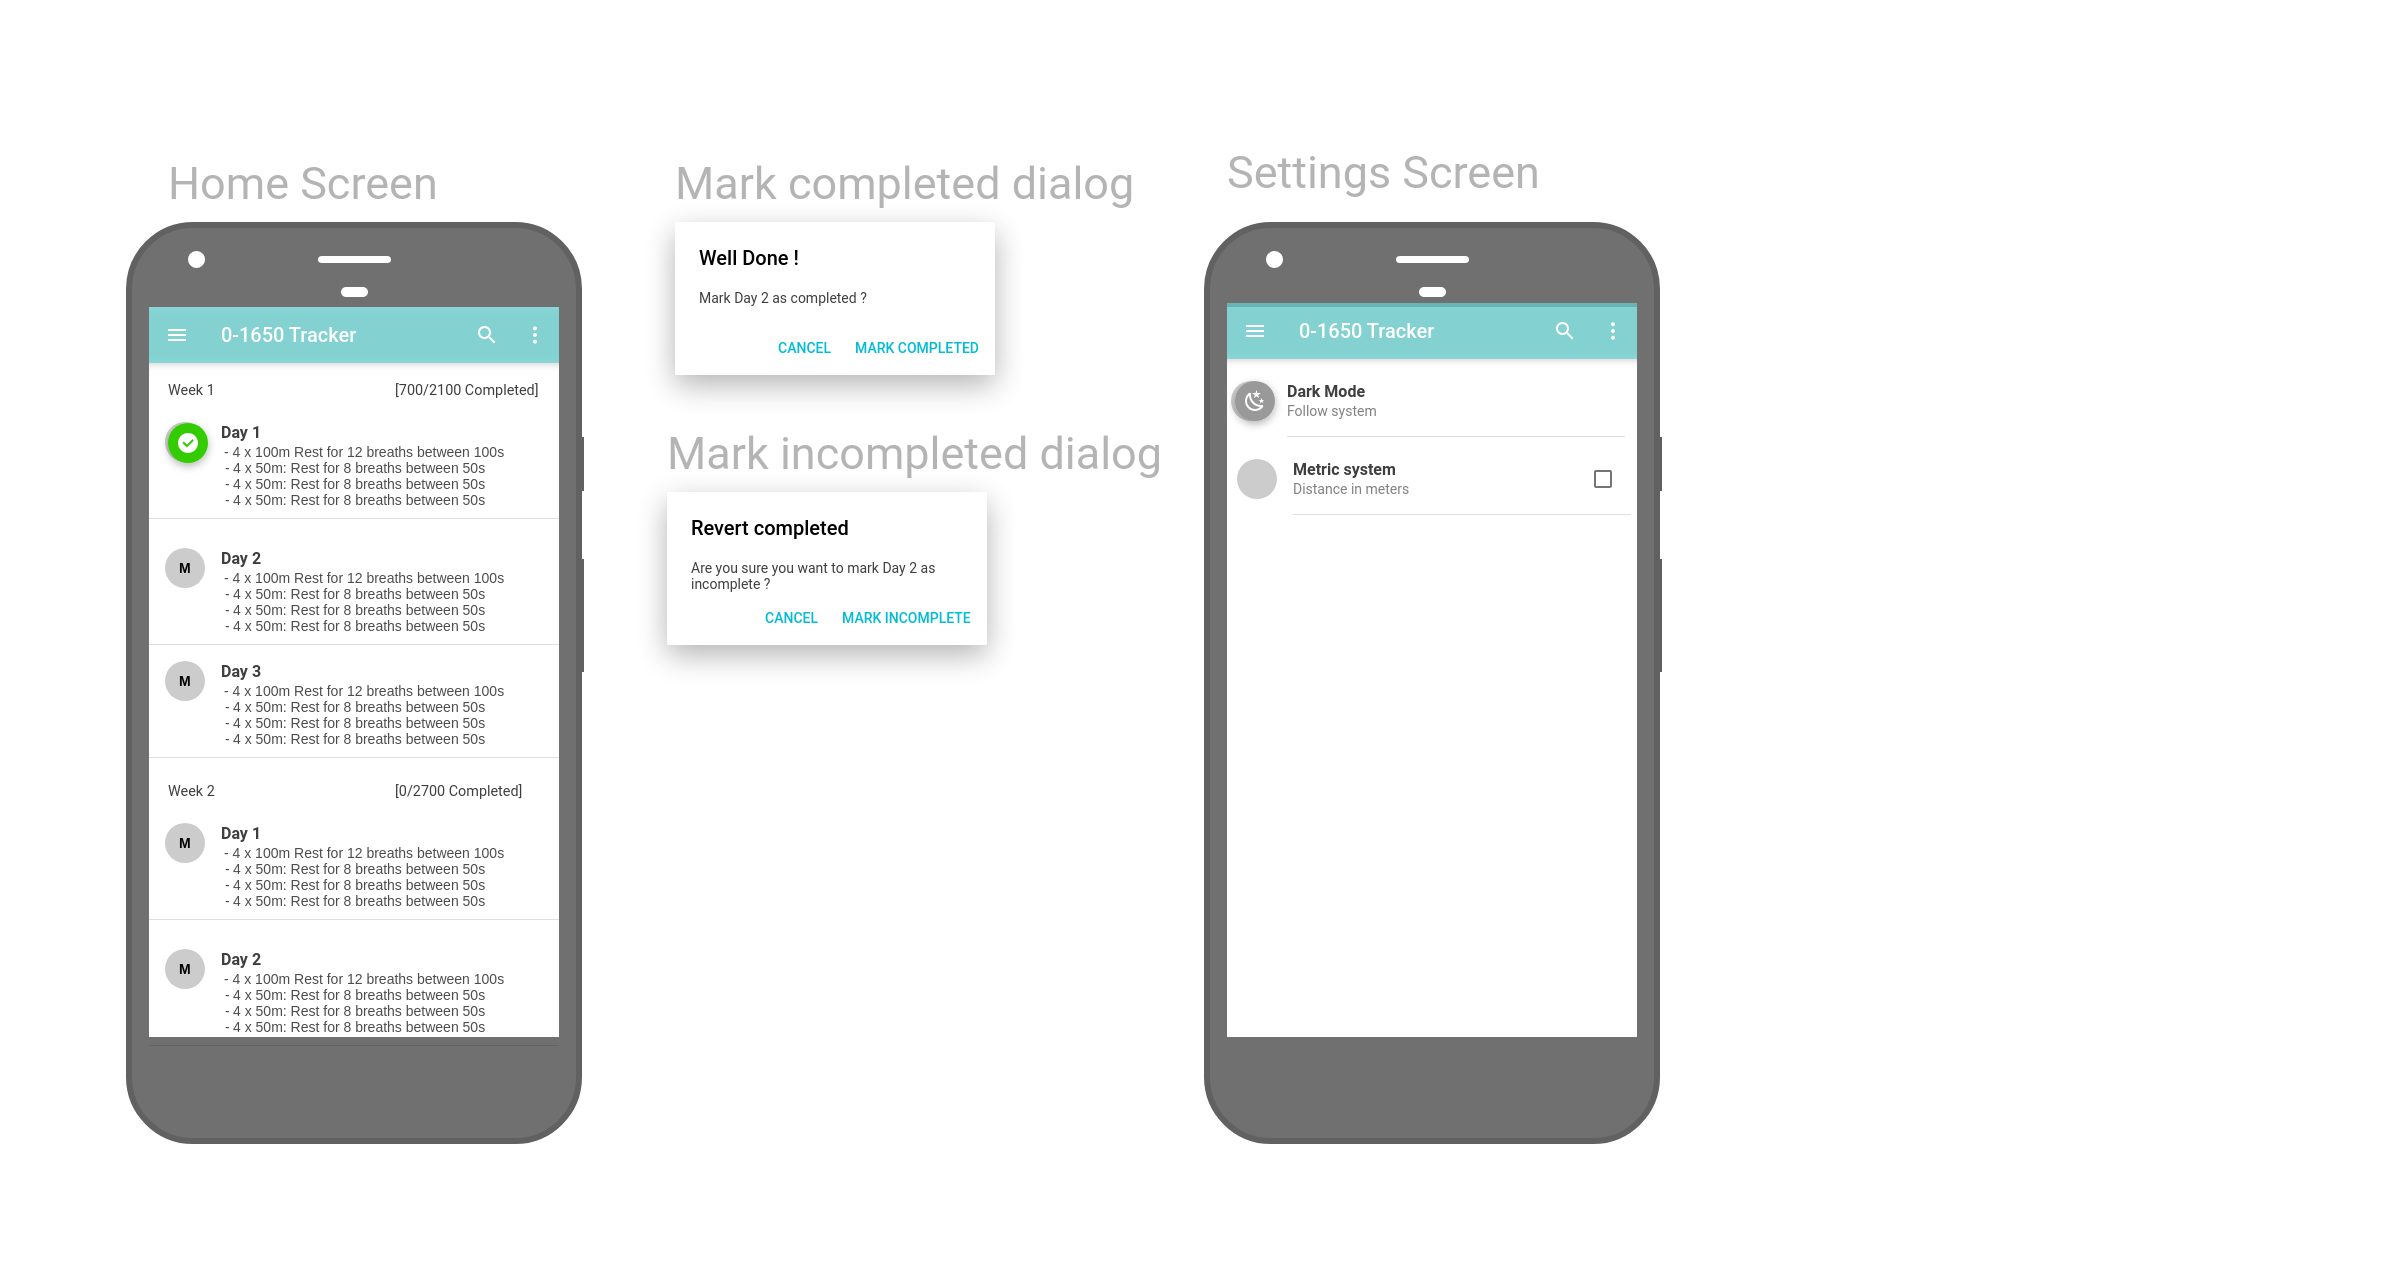
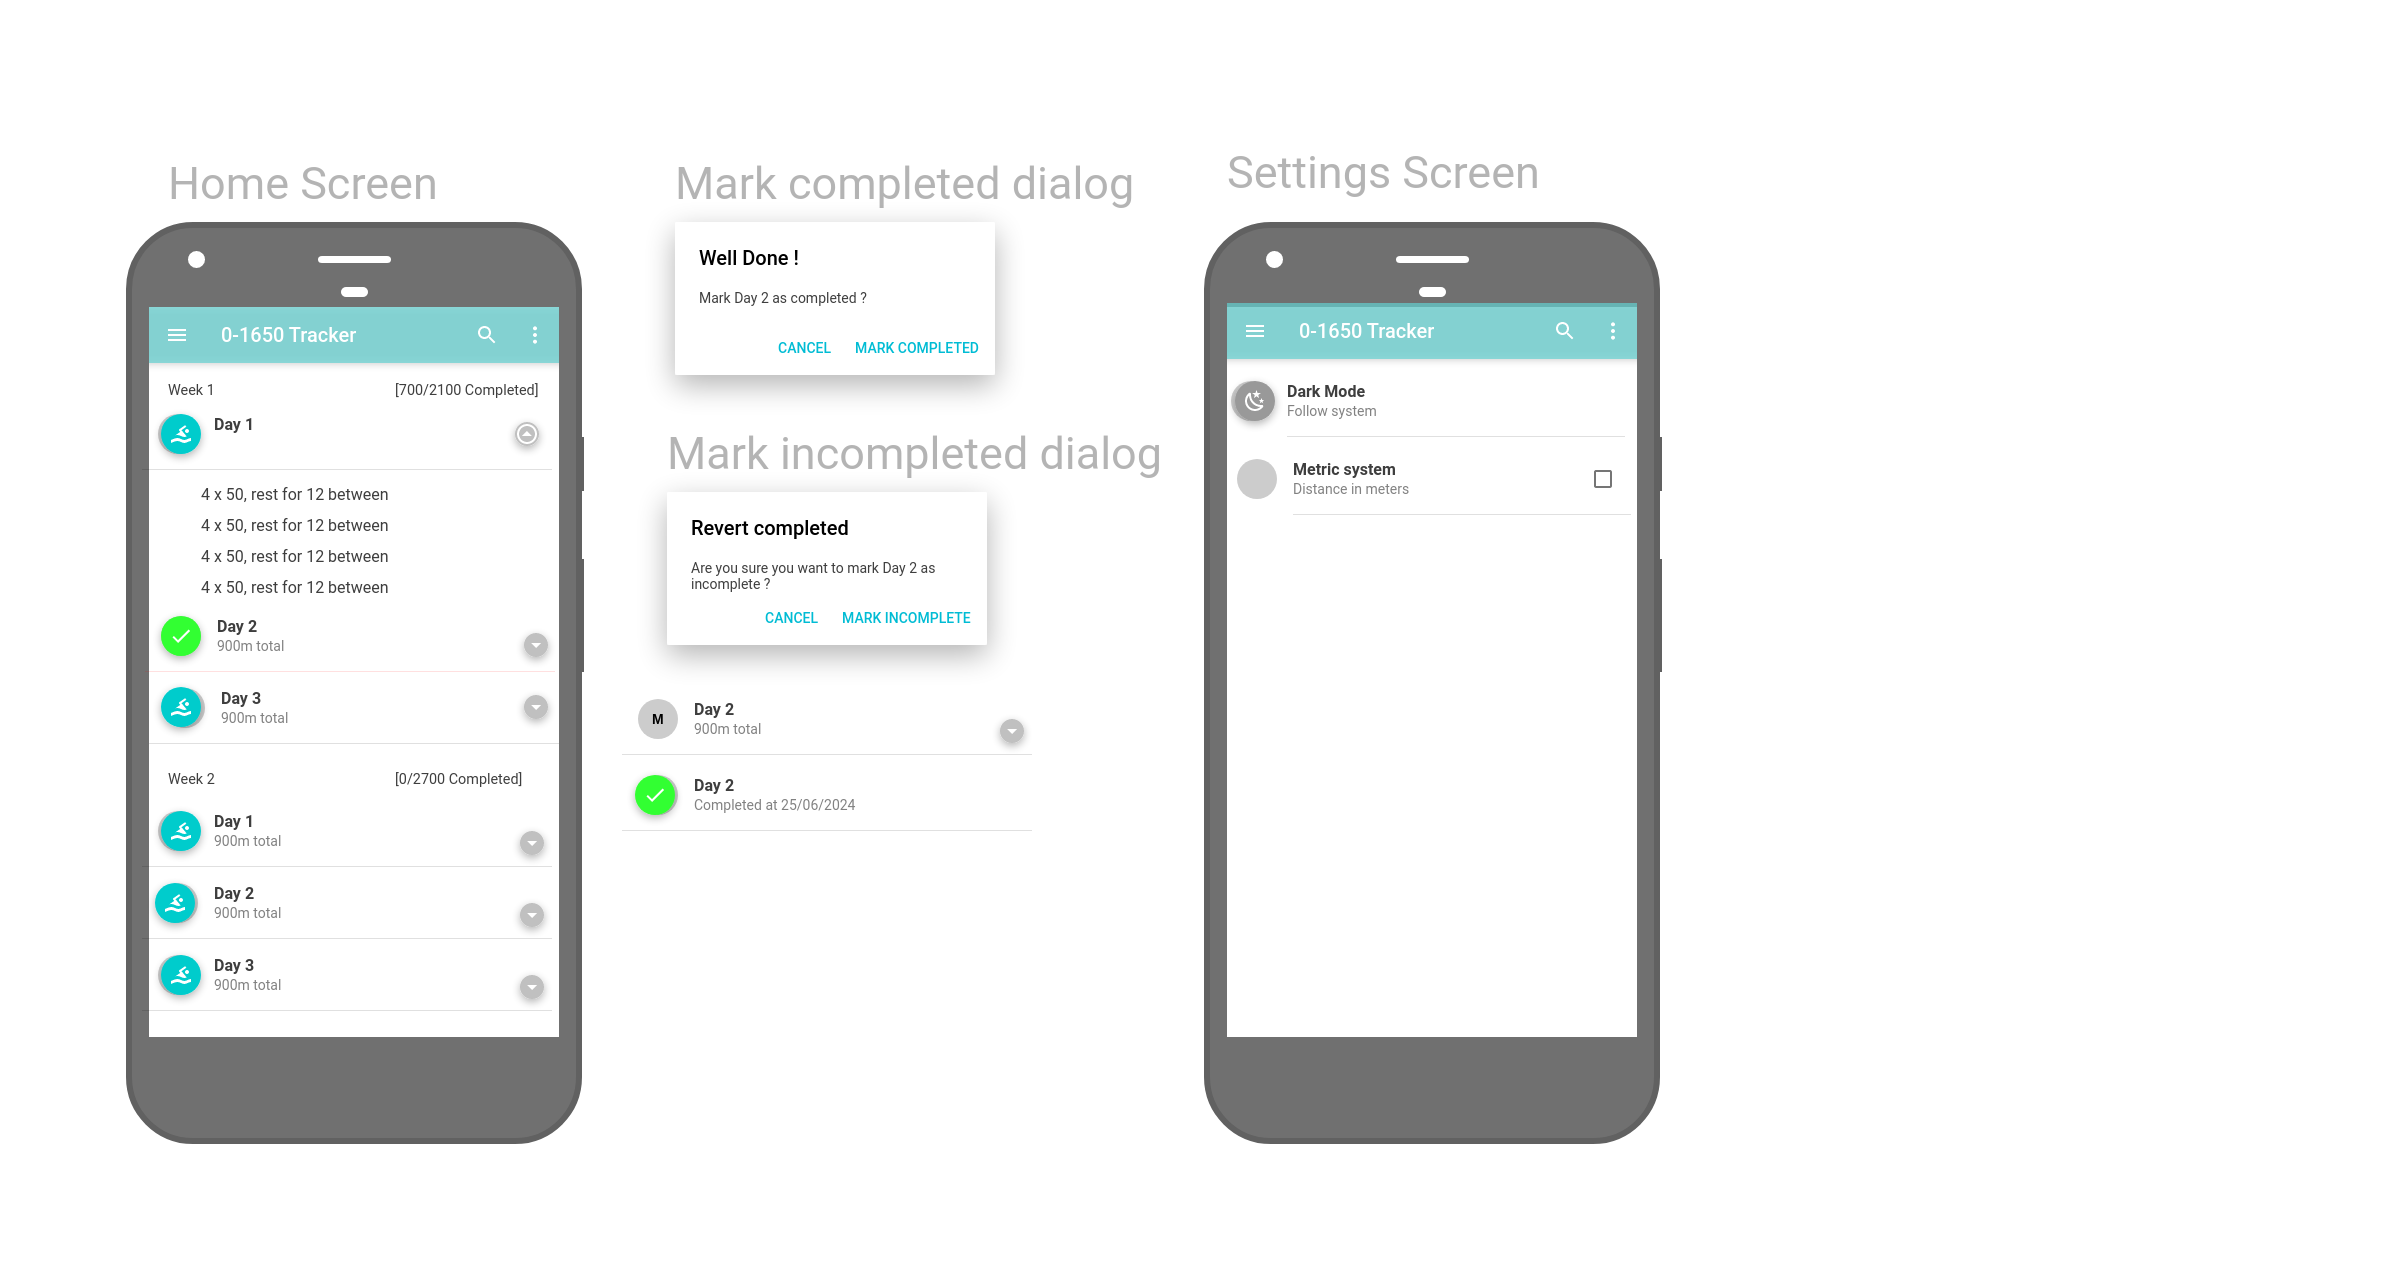
Integrate updated wireframe and some UI resources

diff --git a/app/data/src/main/java/com/alexallafi/app/data/local_storage/LocalSwimSessionsRepository.kt b/app/data/src/main/java/com/alexallafi/app/data/local_storage/LocalSwimSessionsRepository.kt
@@ -8,6 +8,7 @@ import com.alexallafi.app.domain.SwimSessionsRepository
 import com.alexallafi.app.domain.SwimmingWeek
 import kotlinx.coroutines.CoroutineDispatcher
 import kotlinx.coroutines.Dispatchers
+import kotlinx.coroutines.ensureActive
 import kotlinx.coroutines.flow.Flow
 import kotlinx.coroutines.flow.MutableStateFlow
 import kotlinx.coroutines.flow.flow
@@ -20,7 +21,7 @@ import java.io.File
 
 class LocalSwimSessionsRepository(
     private val context: Context,
-    private val ioDispatcher: CoroutineDispatcher = Dispatchers.IO
+    private val ioDispatcher: CoroutineDispatcher
 ) : SwimSessionsRepository {
 
     private val _sessionsFlow = MutableStateFlow<List<SwimSession>>(emptyList())
@@ -33,6 +34,7 @@ class LocalSwimSessionsRepository(
 
             if (file.exists()) {
                 val encoded = file.readText()
+                ensureActive()
                 val decoded = Json.decodeFromString<List<com.alexallafi.app.data.local_storage.SwimSession>>(encoded)
                 Result.success(decoded.toDomainModel())
             } else {
@@ -47,7 +49,7 @@ class LocalSwimSessionsRepository(
 
         withContext(ioDispatcher) {
 
-            val allSessions = getAll().getOrElse { return@withContext  }.toMutableList()
+            val allSessions = getAll().getOrElse { return@withContext }.toMutableList()
 
             val sessionIndex = allSessions.indexOfFirst { it.priority == swimSession.priority }
             if (sessionIndex != -1) {

diff --git a/app/data/src/main/java/com/alexallafi/app/data/di/DatabaseModule.kt b/app/data/src/main/java/com/alexallafi/app/data/di/DatabaseModule.kt
@@ -1,7 +1,11 @@
 package com.alexallafi.app.data.di
 
+import com.alexallafi.app.data.local_storage.LocalSwimSessionsRepository
+import com.alexallafi.app.domain.SwimSessionsRepository
+import org.koin.core.module.dsl.singleOf
+import org.koin.dsl.bind
 import org.koin.dsl.module
 
 val localStorageModule = module {
-
+    singleOf(::LocalSwimSessionsRepository) bind SwimSessionsRepository::class
 }
